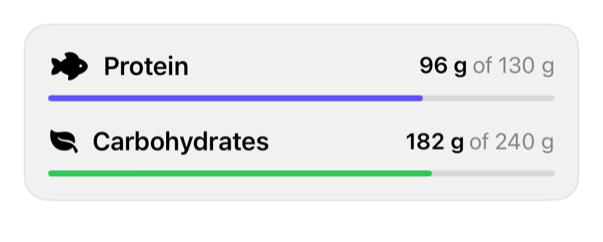
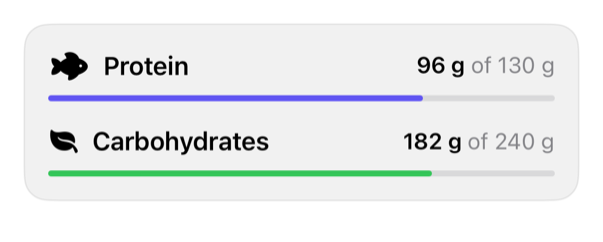
macro-progress: render the progress phrase as one localized string
The value, of, and target were three views no translator can reorder; they are one interpolated Text with a comment. Recaptured macro-progress and nutrition-overview.

By specifier.

Changed region(s): [[0.6866, 0.2314, 0.8358, 0.3182], [0.6567, 0.5496, 0.806, 0.6364]]

diff --git a/Examples/Showcase/SwiftUIRegistryShowcasePackage/Sources/SwiftUIRegistryShowcaseFeature/Installed/MacroProgress.swift b/Examples/Showcase/SwiftUIRegistryShowcasePackage/Sources/SwiftUIRegistryShowcaseFeature/Installed/MacroProgress.swift
@@ -58,15 +58,13 @@ private struct MacroValue: View {
     let target: Text
 
     var body: some View {
-        HStack(spacing: 3) {
-            value
-                .fontWeight(.semibold)
-            Text("of")
-                .foregroundStyle(.secondary)
-            target
-                .foregroundStyle(.secondary)
-        }
+        // One localized phrase, so translators can reorder it.
+        Text(
+            "\(value.fontWeight(.semibold).foregroundStyle(.primary)) of \(target)",
+            comment: "Progress toward a target: the first value is the amount so far, the second is the target"
+        )
         .font(.subheadline)
+        .foregroundStyle(.secondary)
     }
 }
 

diff --git a/Registry/sources/components/MacroProgress.swift b/Registry/sources/components/MacroProgress.swift
@@ -58,15 +58,13 @@ private struct MacroValue: View {
     let target: Text
 
     var body: some View {
-        HStack(spacing: 3) {
-            value
-                .fontWeight(.semibold)
-            Text("of")
-                .foregroundStyle(.secondary)
-            target
-                .foregroundStyle(.secondary)
-        }
+        // One localized phrase, so translators can reorder it.
+        Text(
+            "\(value.fontWeight(.semibold).foregroundStyle(.primary)) of \(target)",
+            comment: "Progress toward a target: the first value is the amount so far, the second is the target"
+        )
         .font(.subheadline)
+        .foregroundStyle(.secondary)
     }
 }
 

diff --git a/Examples/Showcase/SwiftUIRegistryShowcasePackage/Sources/SwiftUIRegistryShowcaseFeature/RegistryCatalogManifest.swift b/Examples/Showcase/SwiftUIRegistryShowcasePackage/Sources/SwiftUIRegistryShowcaseFeature/RegistryCatalogManifest.swift
@@ -271,7 +271,7 @@ enum RegistryCatalogManifest {
         CatalogEntry(
             name: "macro-progress",
             kind: "component",
-            version: "0.2.0",
+            version: "0.3.0",
             description: "Displays prepared nutrition progress with a native progress view and adaptive value layout.",
             usage: "MacroProgress(\n    \"Protein\",\n    value: Text(\"96 g\"),\n    target: Text(\"130 g\"),\n    progress: 96.0 / 130.0,\n    systemImage: \"fish.fill\",\n    tint: .indigo\n)",
             dependencies: [],

diff --git a/docs/catalog/macro-progress.md b/docs/catalog/macro-progress.md
@@ -48,11 +48,11 @@ MacroProgress(
 ## Details
 
 - Kind: component
-- Version: 0.2.0
+- Version: 0.3.0
 - Platforms: iOS 26.0+
 - Registry dependencies: none
 - Accessibility contract:
   - Uses native ProgressView semantics.
   - Uses ViewThatFits to move prepared values below the label when horizontal space is constrained.
-  - Combines the label and prepared values without relying on tint to communicate meaning.
+  - Combines the label and one localized progress phrase without relying on tint to communicate meaning.
 - Source: [sources/components/MacroProgress.swift](../../Registry/sources/components/MacroProgress.swift), with the `Macro Progress` Xcode preview

diff --git a/docs/catalog/nutrition-overview.md b/docs/catalog/nutrition-overview.md
@@ -62,7 +62,7 @@ NutritionOverview(
 - Kind: block
 - Version: 0.2.0
 - Platforms: iOS 26.0+
-- Installs in order: [metric-card](metric-card.md) 0.2.0, [macro-progress](macro-progress.md) 0.2.0, [nutrition-overview](nutrition-overview.md) 0.2.0
+- Installs in order: [metric-card](metric-card.md) 0.2.0, [macro-progress](macro-progress.md) 0.3.0, [nutrition-overview](nutrition-overview.md) 0.2.0
 - Accessibility contract:
   - Uses native Button and ProgressView semantics.
   - Uses system text styles and adaptive macro rows for Dynamic Type.
